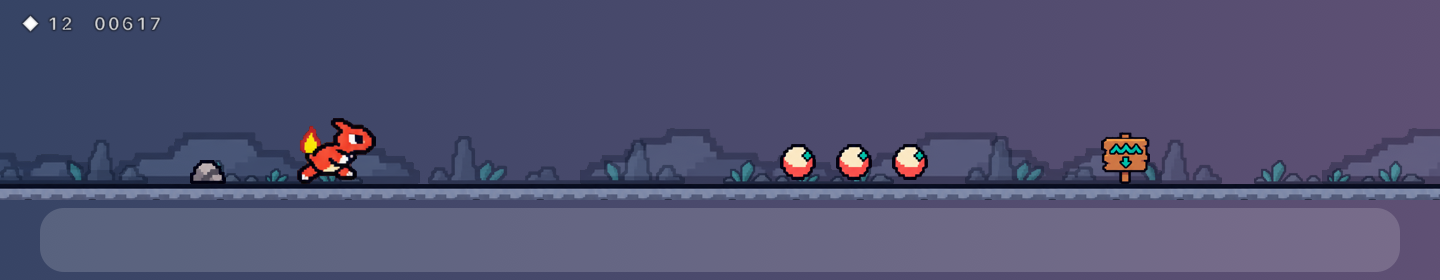
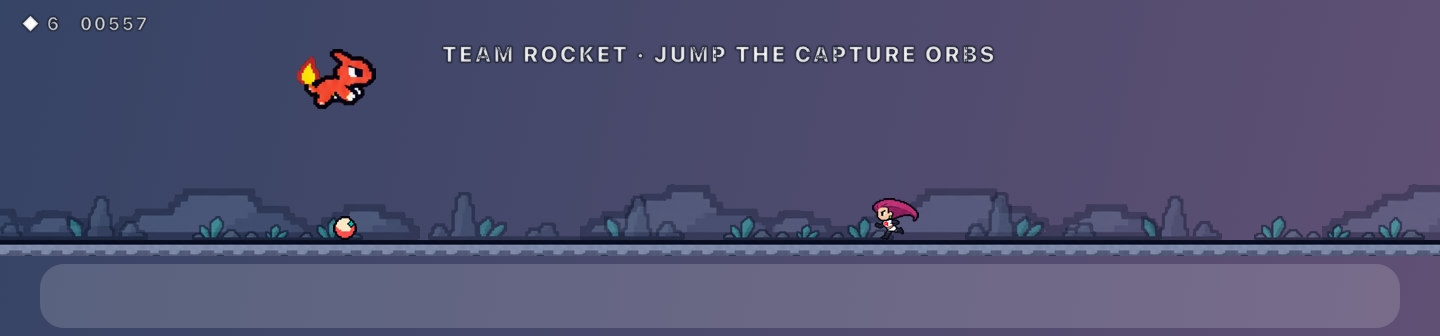
Make jumps more forgiving with tap and hold control and wider hazard spacing

diff --git a/Sources/main.swift b/Sources/main.swift
@@ -3,8 +3,9 @@
 import Cocoa
 
 let px: CGFloat = 2                       // points per logical px
-let stripH = 50.0                          // logical px: y -4 ... 46
+let stripH = T.top + T.bandDepth           // room for the taller jump, including final evolutions
 let bandDepth = T.bandDepth
+let jumpHelp = "Tap Space to jump · hold for height · Esc pauses"
 
 func artDir() -> URL {
     let bundled = Bundle.main.resourceURL!.appendingPathComponent("Art")
@@ -300,6 +301,12 @@ final class Scene {
         case .ready: msg = "EMBERTRAIL"
         case .paused: msg = "PAUSED"
         case .over: msg = "GAME OVER  ·  \(g.score)"
+        case .running:
+            if let balloon = g.balloon, balloon.stage == .telegraph || balloon.stage == .drop {
+                msg = "TEAM ROCKET · ROCK INCOMING"
+            } else if !g.scheduled.isEmpty || g.things.contains(where: { $0.kind == .thrownOrb || $0.kind == .capOrb || $0.kind == .grunt }) {
+                msg = "TEAM ROCKET · JUMP THE CAPTURE ORBS"
+            }
         default: msg = ""
         }
         setText(msgL, msg, size: 11, centerX: size.width / 2, topY: size.height * 0.86, weight: .heavy)
@@ -414,7 +421,9 @@ final class StripView: NSView {
     override var acceptsFirstResponder: Bool { true }
     override func acceptsFirstMouse(for event: NSEvent?) -> Bool { true }
     override func keyDown(with e: NSEvent) { app?.key(e) }
+    override func keyUp(with e: NSEvent) { app?.jumpUp(Int(e.keyCode)) }
     override func mouseDown(with e: NSEvent) { app?.click() }
+    override func mouseUp(with e: NSEvent) { app?.jumpUp(-1) }
 }
 
 // MARK: - App
@@ -429,6 +438,7 @@ final class AppController: NSObject, NSApplicationDelegate, NSMenuDelegate {
     var link: CADisplayLink?
     var last = 0.0, acc = 0.0
     var placementNote = ""
+    var jumpInputs: Set<Int> = []
 
     func applicationDidFinishLaunching(_ n: Notification) {
         do { art = try Art(dir: artDir()) } catch {
@@ -474,9 +484,19 @@ final class AppController: NSObject, NSApplicationDelegate, NSMenuDelegate {
     }
 
     // Input: only while the strip has keyboard focus, which happens only after Play.
+    func jumpDown(_ source: Int) {
+        guard game.phase == .running || game.phase == .evolving else { return }
+        guard jumpInputs.insert(source).inserted else { return }
+        if jumpInputs.count == 1 { game.press() }
+    }
+    func jumpUp(_ source: Int) {
+        jumpInputs.remove(source)
+        if jumpInputs.isEmpty { game.release() }
+    }
     func key(_ e: NSEvent) {
+        guard !e.isARepeat else { return }
         switch e.keyCode {
-        case 49, 126: if game.phase == .running || game.phase == .evolving { game.press() }       // Space, Up
+        case 49, 126: jumpDown(Int(e.keyCode))                                                    // Space, Up
         case 36, 76:                                                                              // Return, Enter
             if [.ready, .over, .paused].contains(game.phase) { game.press() }
         case 35: if game.phase == .paused { game.resume() } else { game.pause() }                 // P
@@ -485,7 +505,7 @@ final class AppController: NSObject, NSApplicationDelegate, NSMenuDelegate {
         }
     }
     func click() {
-        if game.phase == .running || game.phase == .evolving { game.press(); return }
+        if game.phase == .running || game.phase == .evolving { jumpDown(-1); return }
         let p = view.convert(panel.mouseLocationOutsideOfEventStream, from: nil)
         guard let id = scene.buttons.first(where: { $0.value.insetBy(dx: -4, dy: -4).contains(p) })?.key else { return }
         if id == "play" { play() }
@@ -529,6 +549,7 @@ final class AppController: NSObject, NSApplicationDelegate, NSMenuDelegate {
         // While playing, the whole strip takes clicks (to jump). Otherwise only the Play button does; anywhere
         // else over the strip it fades and clicks go straight through to the windows behind.
         let playing = game.phase == .running || game.phase == .evolving || game.phase == .dying
+        if game.phase != .running && game.phase != .evolving { jumpInputs.removeAll(); game.release() }
         let m = NSEvent.mouseLocation, f = panel.frame
         let local = CGPoint(x: m.x - f.minX, y: m.y - f.minY)
         let hot = playing ? nil : scene.buttons.first(where: { $0.value.insetBy(dx: -4, dy: -4).contains(local) })?.key
@@ -541,7 +562,7 @@ final class AppController: NSObject, NSApplicationDelegate, NSMenuDelegate {
         scene.update(game, dt: dt, help: helpText)
     }
     var helpText: String {
-        game.phase == .ready ? "Space jumps   ·   water is deadly for everyone   ·   Esc pauses" : ""
+        game.phase == .ready ? jumpHelp : ""
     }
 
     var faded = false
@@ -663,7 +684,7 @@ func renderFrame(_ scene: Scene, _ g: Game, width: CGFloat, backing b: CGFloat, 
     }
     ctx.translateBy(x: 0, y: 40)
     scene.layout(size: CGSize(width: width, height: CGFloat(stripH) * px), backing: b)
-    scene.update(g, dt: dt, help: g.phase == .ready ? "Space jumps   ·   water is deadly for everyone   ·   Esc pauses" : "")
+    scene.update(g, dt: dt, help: g.phase == .ready ? jumpHelp : "")
     ctx.interpolationQuality = .high
     scene.root.render(in: ctx)
     return ctx.makeImage()!
@@ -745,18 +766,53 @@ func selftest() -> Int32 {
     }
     check(art.orb.count == 6 && art.sparkle.count == 6 && art.water.count == 6 && art.balloon.count == 6 && art.crab.count == 6, "orb/sparkle/water/balloon/crab frames")
 
-    // Physics: apex and airtime from the brief (19.36 px, 0.44 s).
+    // Dockosaur-inspired held arc, with a forgiving minimum tap jump.
     let p = Game(seed: 1); p.start(); p.gapLeft = 1e9
     p.press(); var apex = 0.0, air = 0.0
     repeat { p.step(); apex = max(apex, p.y); air += T.step } while !p.onGround && air < 2
-    check(abs(apex - 19.36) < 0.3 && abs(air - 0.44) < 0.03, "apex \(apex), airtime \(air)")
+    check(abs(apex - 33.02) < 0.3 && abs(air - 0.614) < 0.02, "held apex \(apex), airtime \(air)")
+    let tap = Game(seed: 1); tap.start(); tap.gapLeft = 1e9
+    tap.press(); tap.release(); var tapApex = 0.0, tapAir = 0.0
+    repeat { tap.step(); tapApex = max(tapApex, tap.y); tapAir += T.step } while !tap.onGround && tapAir < 2
+    check(abs(tapApex - 27.16) < 0.3 && abs(tapAir - 0.557) < 0.02 && tapApex < apex, "quick tap retains a useful arc (\(tapApex), \(tapAir))")
+    let released = Game(seed: 1); released.start(); released.gapLeft = 1e9
+    released.press(); run(released, 0.08); released.release()
+    var releasedApex = released.y
+    while !released.onGround { released.step(); releasedApex = max(releasedApex, released.y) }
+    check(abs(releasedApex - tapApex) < 0.3, "release during ascent trims extra height smoothly")
+
+    // Holding is one jump, never an OS-repeat-driven chain of automatic jumps.
+    let held = Game(seed: 1); held.start(); held.gapLeft = 1e9; held.press(); run(held, 1.5)
+    check(held.events.filter { if case .jumped = $0 { return true }; return false }.count == 1, "holding does not auto-repeat jumps")
+
+    // A player can be 75 ms early or late on either tap or hold, against every ground obstacle.
+    var clears = 0
+    let groundTests = hazardSpecs + [HazardSpec(kind: .capOrb, w: 5, h: 5, vx: 8), HazardSpec(kind: .grunt, w: 7, h: 8, vx: 10)]
+    for speed in [T.startSpeed, 92.0, T.maxSpeed] {
+        for hazard in groundTests {
+            for hold in [false, true] {
+                for offset in [-0.075, 0.0, 0.075] {
+                    let g = Game(seed: 1); g.start(); g.gapLeft = 1e9
+                    g.active = (speed - T.startSpeed) / T.accel
+                    let flightCenter = (hold ? T.jumpV : T.tapV) / T.gravity
+                    let x = T.heroX + (speed + hazard.vx) * (flightCenter + offset) - hazard.w / 2
+                    g.things = [Thing(id: 99, kind: hazard.kind, x: x, w: hazard.w, h: hazard.h, vx: hazard.vx)]
+                    g.press(); if !hold { g.release() }; run(g, 1.1)
+                    let alive = g.phase != .dying && g.phase != .over
+                    check(alive, "\(hazard.kind) clears at speed \(speed), hold \(hold), timing offset \(offset)")
+                    if alive { clears += 1 }
+                }
+            }
+        }
+    }
+    print("forgiving jumps: \(clears)/144 early, centered, and late tap/hold clears")
 
     // Jump buffer: one press shortly before landing gives exactly one jump.
     let jb = Game(seed: 1); jb.start(); jb.gapLeft = 1e9
-    jb.press(); run(jb, 0.38); jb.events.removeAll(); jb.press(); run(jb, 1.2)
+    jb.press(); run(jb, 0.53); jb.events.removeAll(); jb.press(); jb.release(); run(jb, 1.2)
     check(jb.events.filter { if case .jumped = $0 { return true }; return false }.count == 1, "jump buffer: one jump from one press")
 
-    // Coyote: walking off a pit lip and pressing within 70 ms still jumps.
+    // Coyote: walking off a pit lip and pressing within 100 ms still jumps.
     let cy = Game(seed: 1); cy.start(); cy.gapLeft = 1e9
     cy.things = [Thing(id: 99, kind: .pit, x: T.heroX - T.bodyW / 2 - 0.2, w: 40, h: 0)]
     cy.step(); check(!cy.onGround, "pit lip: no support")
@@ -783,6 +839,7 @@ func selftest() -> Int32 {
     let ps = Game(seed: 1); ps.start(); run(ps, 1); let s0 = ps.score, d0 = ps.distance
     ps.pause(); run(ps, 5)
     check(ps.score == s0 && ps.distance == d0, "pause adds no distance or score")
+    check(!ps.holding && ps.buffer == 0, "pause clears held and buffered input")
 
     // Fair play: the bot runs 6 seeds x 5 minutes. Evolutions once each, on the ground; spawned hazards fair.
     var deaths = 0, violations = 0, evo = 0, drops = 0, cancels = 0, maxStage = 0
@@ -801,7 +858,7 @@ func selftest() -> Int32 {
         violations += g.windowViolations; evo += g.evolutions; drops += g.balloonDrops; cancels += g.balloonCancels; maxStage = max(maxStage, g.stage)
     }
     print("bot: \(deaths) deaths in 30 min, \(evo) evolutions, \(drops) balloon drops (\(cancels) cancelled as unfair), window violations \(violations)")
-    check(violations == 0, "every spawned hazard leaves a >= 120 ms input window")
+    check(violations == 0, "every spawned hazard leaves a >= 180 ms tap-jump window")
     check(maxStage == 2, "reaches the adult form")
     check(drops > 0, "balloon drops happen")
     check(deaths <= 2, "bot survives (generator is fair)")

diff --git a/Sources/Game.swift b/Sources/Game.swift
@@ -1,24 +1,26 @@
 // Embertrail simulation: pure game rules, no drawing or windows. Deterministic for a seed and input sequence.
 //
 // Coordinates: logical px, x to the right, y UP, ground surface at y = 0. The strip spans y = -4 (bottom of the
-// thin ground/water band) to y = 46 (top). The world scrolls left past a hero whose feet sit at x = heroX.
+// thin ground/water band) to y = 60 (top). The world scrolls left past a hero whose feet sit at x = heroX.
 import Foundation
 
 enum T {   // tunables (handoff game-config.json defaults)
     static let step = 1.0 / 120
     static let maxCatchUp = 8            // fixed steps per frame at most; longer stalls pause instead
-    static let gravity = 800.0
-    static let jumpV = 176.0
-    static let coyote = 0.07
-    static let buffer = 0.10
+    static let gravity = 700.0
+    static let jumpV = 215.0             // held jump: ~33 px apex, 0.61 s airtime
+    static let tapV = 195.0              // even a quick tap clears rocks comfortably (~27 px, 0.56 s)
+    static let coyote = 0.10
+    static let buffer = 0.16
     static let startSpeed = 72.0, maxSpeed = 112.0, accel = 0.35
     static let heroX = 84.0
     static let bodyW = 10.0, bodyH = 14.0
-    static let top = 46.0, bandDepth = 4.0
+    static let top = 60.0, bandDepth = 4.0
     static let distPerPoint = 8.0, pointsPerOrb = 10
     static let evolveAt = [30.0, 75.0]
     static let evolveFreeze = 0.65
-    static let minWindow = 0.12          // every spawned hazard must leave at least this much input timing slack
+    static let minWindow = 0.18          // minimum timing slack even for the shorter tap jump
+    static let recoveryGap = 1.25        // seconds between ordinary hazard patterns
     static let onboarding = 3.0          // safe ground at the start of a run
     static let pitsFrom = 8.0
     static let balloonFrom = 20.0, balloonCooldown = 20.0
@@ -75,8 +77,8 @@ let hazardSpecs: [HazardSpec] = [
 ]
 
 /// Seconds the hero's body spends higher than `h` during a full jump.
-func timeAbove(_ h: Double) -> (Double, Double)? {
-    let a = T.gravity / 2, b = T.jumpV
+func timeAbove(_ h: Double, launchV: Double = T.jumpV) -> (Double, Double)? {
+    let a = T.gravity / 2, b = launchV
     let d = b * b - 4 * a * h
     guard d > 0 else { return nil }
     return ((b - d.squareRoot()) / (2 * a), (b + d.squareRoot()) / (2 * a))
@@ -84,12 +86,12 @@ func timeAbove(_ h: Double) -> (Double, Double)? {
 
 /// Input timing slack for clearing a w x h obstacle approaching at `v`: how early/late the jump may be.
 func jumpWindow(w: Double, h: Double, v: Double) -> Double {
-    guard let (a, b) = timeAbove(max(h, 0.0001)) else { return -1 }
+    guard let (a, b) = timeAbove(max(h, 0.0001), launchV: T.tapV) else { return -1 }
     return (b - a) - (w + T.bodyW) / v
 }
 
 /// Pits: the hero falls only when its whole body is over water, so the dangerous span is (w - body).
-func pitWindow(w: Double, v: Double) -> Double { 2 * T.jumpV / T.gravity - max(0, w - T.bodyW) / v }
+func pitWindow(w: Double, v: Double) -> Double { 2 * T.tapV / T.gravity - max(0, w - T.bodyW) / v }
 
 enum Event { case jumped, landed, orb(Int), died(water: Bool), evolved(Int), smashLanded(Int), balloonDrop, captured, defeated(Int), orbLanded(Int) }
 
@@ -102,6 +104,7 @@ final class Game {
     var y = 0.0, vy = 0.0, onGround = true
     var coyote = 0.0, buffer = 0.0, sinceLand = 1.0, sinceJump = 1.0
     var falling = false            // dropped into a pit
+    var holding = false
     // run
     var speed = T.startSpeed, active = 0.0, distance = 0.0, orbs = 0
     var stage = 0, pendingStage: Int? = nil, evolveT = 0.0, evolutions = 0
@@ -142,16 +145,29 @@ final class Game {
         switch phase {
         case .ready, .over: start()
         case .paused: resume()
-        case .running: buffer = T.buffer
+        case .running, .evolving: holding = true; buffer = T.buffer
         default: break
         }
     }
-    func pause() { if phase == .running || phase == .evolving { pausedFrom = phase; phase = .paused } }
+    func release() {
+        holding = false
+        // Keep a forgiving minimum arc even if down/up arrive before the next physics step.
+        // Release cuts only the extra height of a held jump; it never forces a sudden fall.
+        if phase == .running && !onGround && vy > 0 && !autopilot {
+            let tapVelocity = sqrt(max(0, T.tapV * T.tapV - 2 * T.gravity * y))
+            if y < T.tapV * T.tapV / (2 * T.gravity) { vy = min(vy, tapVelocity) }
+        }
+    }
+    func pause() {
+        if phase == .running || phase == .evolving {
+            release(); buffer = 0; pausedFrom = phase; phase = .paused
+        }
+    }
     func resume() { if phase == .paused { phase = pausedFrom } }
 
     func start() {
         phase = .running
-        y = 0; vy = 0; onGround = true; coyote = 0; buffer = 0; falling = false; sinceLand = 1; sinceJump = 1
+        y = 0; vy = 0; onGround = true; coyote = 0; buffer = 0; falling = false; holding = false; sinceLand = 1; sinceJump = 1
         speed = T.startSpeed; active = 0; distance = 0; orbs = 0
         stage = 0; pendingStage = nil; evolveT = 0; evolutions = 0
         things = []; nextID = 1; events = []
@@ -185,7 +201,7 @@ final class Game {
 
         // 1. Buffered input, once, if grounded or within coyote time.
         if buffer > 0 && (onGround || coyote > 0) {
-            vy = T.jumpV; onGround = false; coyote = 0; buffer = 0; sinceJump = 0
+            vy = holding || autopilot ? T.jumpV : T.tapV; onGround = false; coyote = 0; buffer = 0; sinceJump = 0
             events.append(.jumped)
         }
         buffer = max(0, buffer - dt); coyote = max(0, coyote - dt)
@@ -232,7 +248,7 @@ final class Game {
 
         let support = !overPit()
         if !onGround {
-            y += vy * dt - T.gravity / 2 * dt * dt            // exact per step: the jump peaks at 19.36 px as designed
+            y += vy * dt - T.gravity / 2 * dt * dt            // exact integration, independent of display refresh rate
             vy -= T.gravity * dt
             if y <= 0 && vy <= 0 && support && !falling { y = 0; vy = 0; onGround = true; sinceLand = 0; events.append(.landed) }
             if y < -T.bandDepth { die(water: true); return }
@@ -296,20 +312,19 @@ final class Game {
     private func spawn() {
         let v = speed
         let x0 = worldW + 4
-        // Decision spacing: gentle early, never under ~0.9 s.
-        let gapT = active < 20 ? rng.range(1.4, 2.2) : rng.range(0.95, 1.7)
+        // Enough room to land, see the next hazard, and jump again without frantic repeated presses.
+        let gapT = active < 20 ? rng.range(1.8, 2.5) : rng.range(T.recoveryGap, 1.9)
         var right = x0
         let roll = rng.unit()
         let ambushOK = active >= 30 && active - lastAmbush >= 18 && balloon == nil && scheduled.isEmpty
-            && (worldW + 4 - lastRight) >= v * 0.95 + 70
+            && (worldW + 4 - lastRight) >= v * T.recoveryGap + 40
             && jumpWindow(w: 5, h: 5, v: v + 8) >= T.minWindow && jumpWindow(w: 7, h: 8, v: v + 10) >= T.minWindow
         if ambushOK && rng.unit() < 0.35 {
-            // Grunt ambush: two orbs thrown 0.95 s apart (they land and roll in on the same path, so they
-            // arrive 0.95 s apart), then the grunt runs in 2.0 s after the first throw.
-            scheduled = [(active, 0), (active + 0.95, 0), (active + 2.0, 1)]
+            // Separate the two rolling orbs and the character so each gets its own comfortable jump.
+            scheduled = [(active, 0), (active + 1.25, 0), (active + 2.6, 1)]
             ambushes += 1; lastAmbush = active
-            lastRight = x0 + v * 2.0 + 7
-            gapLeft = v * 2.0 + 7 + v * gapT
+            lastRight = x0 + v * 2.6 + 7
+            gapLeft = v * 2.6 + 7 + v * gapT
             return
         }
         if active >= T.pitsFrom && roll < 0.22 {
@@ -341,7 +356,7 @@ final class Game {
                 // Orb arc along an ideal jump over this hazard: it shows the safe path, never lures into danger.
                 let takeoffX = hz.x + hz.w / 2 - v * (2 * T.jumpV / T.gravity) / 2
                 for k in 1...3 {
-                    let t = Double(k) * 0.11
+                    let t = Double(k) * (2 * T.jumpV / T.gravity) / 4
                     let oy = T.jumpV * t - T.gravity / 2 * t * t + 3
                     _ = add(.orb, x: takeoffX + v * t - T.orbSize / 2, y: oy, w: T.orbSize, h: T.orbSize)
                 }
@@ -369,7 +384,7 @@ final class Game {
                 if lead >= max(1.6, 1.15 + 0.6) && clear {          // >= 1.6 s when scheduled, >= 0.6 s left after landing
                     b.stage = .telegraph; b.t = 0; b.targetX = target
                     lastRight = max(lastRight, target + 6)          // generator keeps a full gap after the rock
-                    gapLeft = max(gapLeft, (target + 6 - (worldW + 4)) + speed * 0.95)
+                    gapLeft = max(gapLeft, (target + 6 - (worldW + 4)) + speed * T.recoveryGap)
                 } else {
                     balloonCancels += 1; b.stage = .retreat; b.t = 0
                 }

diff --git a/README.md b/README.md
@@ -6,7 +6,7 @@ A tiny endless runner that lives in a see-through strip just above your macOS Do
 
 | Meadow | Crystal cave | Volcano |
 |---|---|---|
-| ![Meadow stage with a water pit and its wave sign](docs/meadow.png) | ![Cave stage with an orb arc over a rock](docs/cave.png) | ![Volcano stage with Charizard](docs/volcano.png) |
+| ![Meadow stage with Charmander](docs/meadow.png) | ![Cave stage with Charmeleon](docs/cave.png) | ![Volcano stage with Charizard](docs/volcano.png) |
 
 ## Choose your starter
 
@@ -23,18 +23,18 @@ Pick one the first time you play. Switch anytime with **Change starter** on the 
 ## Play
 
 1. Click **▶ Play** on the strip (or the character icon in the menu bar ▸ **Play**). The strip takes keyboard focus only now, never on its own.
-2. **Space** or **↑** to jump (one fixed jump; no hold-to-fly). Clicking the strip while playing also jumps.
+2. **Space** or **↑** to jump. Tap for a comfortable hop; hold for a higher, longer arc. Clicking and holding the strip works too. One press gives one jump, without automatic repeated bouncing.
 3. **Esc** pauses and hands focus back to your other app. **P** pauses or resumes; **Enter** starts or restarts.
 
-- **Hazards:** rocks, spikes, crates, boulders, and later scuttling crabs and burrowing moles.
+- **Hazards:** rocks, spikes, crates, boulders, and later scuttling crabs and burrowing moles. Patterns are spaced 1.8–2.5 seconds apart early on, then at least 1.25 seconds apart, giving you time to land and prepare for the next jump.
 - **Water pits:** a wave sign warns you first. Water is deadly for every form.
 - **Orbs:** worth 10 points each. When they hang in an arc, the arc shows a safe jump.
 - **Score:** distance (1 point per 8 px) plus orbs. Your best score is saved.
 - **Evolution:** at 30 s of running your starter takes its second form and the world turns into a crystal cave; at 75 s it takes its final form in a volcanic field. It always waits for safe ground first.
-- **Grunt ambush:** Jessie or James throws small capture orbs. They land and roll at you, so jump them, because if one touches you, you're captured: the orb snaps shut and wobbles, and it's game over. Then jump right over the grunt to knock it out cold (swirly eyes, +25).
+- **Grunt ambush:** Jessie or James throws small capture orbs. They land and roll at you, so jump them, because if one touches you, you're captured: the orb snaps shut and wobbles, and it's game over. The two throws are spaced 1.25 seconds apart, followed by Jessie or James. Jump right over them for swirly eyes and +25. An on-screen Team Rocket warning announces the encounter.
 
   ![A grunt ambush: rolling capture orbs, then the grunt knocked out with swirly eyes](docs/ambush.gif)
-- **Balloon gang:** after 20 s Team Rocket’s Meowth balloon may drift in. It marks a spot on the ground, then drops one rock there, always well ahead of you. If there's no fair spot, it just leaves.
+- **Balloon gang:** after 20 s Team Rocket’s Meowth balloon may drift in. It marks a spot on the ground and shows “ROCK INCOMING”, then drops one rock there, always well ahead of you. If there's no fair spot, it just leaves.
 
 When you're not playing, only the Play button is clickable. Hover anywhere else on the strip and it fades away, with clicks going straight through to your windows, and the game pauses on its own when you switch apps, lock the screen or sleep.
 
@@ -61,9 +61,9 @@ build/Embertrail.app/Contents/MacOS/Embertrail --record out.gif --from 19.5 --to
 ## What's built and what isn't (yet)
 
 **Built and tested** (`--selftest`):
-- **Physics:** fixed 1/120 s steps, 19.36 px jump apex, 0.44 s airtime, a 100 ms jump buffer, 70 ms coyote time and a constant 10×14 hitbox for every form.
+- **Physics:** fixed 1/120 s steps; tap jumps reach about 27 px over 0.56 s, held jumps about 33 px over 0.61 s. A 160 ms jump buffer and 100 ms coyote time forgive slightly early or late presses. Every form retains the same 10×14 hitbox. The strip has extra headroom for fully evolved characters.
 - **Water:** real gaps in the ground, deadly by drowning.
-- **Fair hazards:** every hazard leaves at least a 120 ms jump window at the current speed (zero violations over 30 bot-minutes).
+- **Fair hazards:** every generated hazard leaves at least a 180 ms timing window even for a tap jump (zero violations over 30 bot-minutes). All 144 combinations of early/centered/late taps and holds, three speeds, and eight ground-hazard types pass. Holding a key does not auto-repeat jumps.
 - **Order of checks:** lethal collisions are resolved before orbs are collected, and orbs count once.
 - **Evolution:** exactly once per stage, in order, on the ground.
 - **Balloon drops:** at least 1.6 s of lead, one authoritative rock, and a 20 s cooldown.
@@ -76,6 +76,8 @@ build/Embertrail.app/Contents/MacOS/Embertrail --record out.gif --from 19.5 --to
 - **Sound:** the game is silent.
 - **Dock placement:** auto-hidden and side Docks use a bottom-edge fallback (labelled in the Position menu); there's no exact Dock tracking.
 - **Real-machine checks:** multiple monitors and 120 Hz displays haven't been tested on hardware.
+
+Jump feel is inspired by [Dockosaur](https://github.com/pratikaman/dockosaur): a longer arc, release-sensitive height, and buffered input. Embertrail uses its own collision and spacing rules.
 
 ## Art and licence
 
